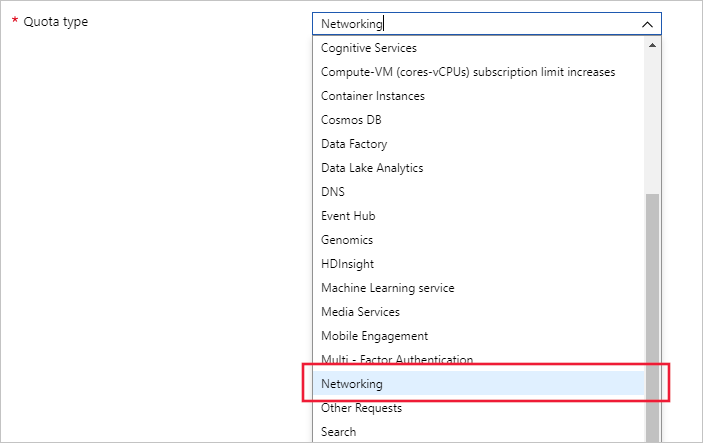
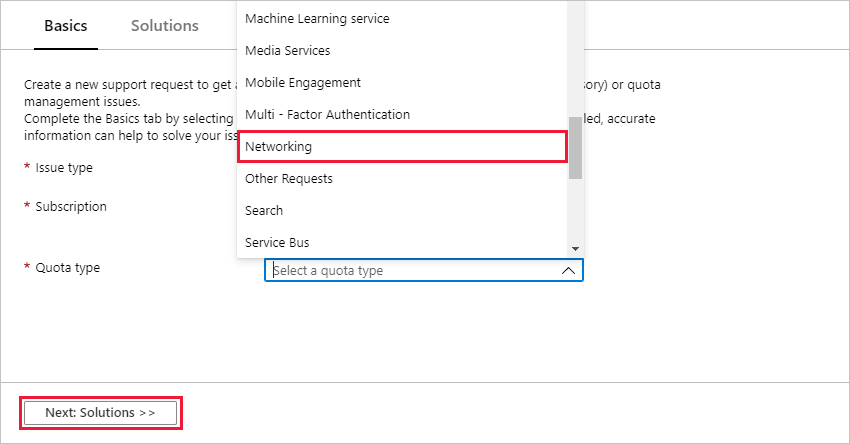
Freshness updates.

diff --git a/articles/azure-portal/supportability/how-to-create-azure-support-request.md b/articles/azure-portal/supportability/how-to-create-azure-support-request.md
@@ -7,7 +7,7 @@ manager: scotthit
 ms.assetid: fd6841ea-c1d5-4bb7-86bd-0c708d193b89
 ms.service: azure-supportability
 ms.topic: article
-ms.date: 11/13/2019
+ms.date: 01/23/2020
 ms.author: kfollis
 ---
 # How to create an Azure support request
@@ -17,24 +17,25 @@ ms.author: kfollis
 Azure customers can create and manage support requests in the [Azure portal](https://portal.azure.com).
 
 > [!NOTE]
-> The Azure portal URL is specific to the Azure cloud where your organization is deployed. 
+> The Azure portal URL is specific to the Azure cloud where your organization is deployed.
+>
 >* Azure portal for commercial use is: [https://portal.azure.com](https://portal.azure.com)
 >* Azure portal for Germany is: [https://portal.microsoftazure.de](https://portal.microsoftazure.de)
 >* Azure portal for the United States government is: [https://portal.azure.us](https://portal.azure.us)
 >
 >
 
-Based on customer feedback, we’ve updated the support request experience to focus on three main goals:
+Based on customer feedback, we've updated the support request experience to focus on three main goals:
 
 * **Streamlined**: Make support and troubleshooting easy to find and simplify how you submit a support request.
-* **Integrated**: You can easily open a support request when you’re troubleshooting an issue with an Azure resource, without switching context.
+* **Integrated**: You can easily open a support request when you're troubleshooting an issue with an Azure resource, without switching context.
 * **Efficient**: Gather the key information your support agent needs to efficiently resolve your issue.
 
 ## Getting started
 
-You can get to **Help + support** in the Azure portal. It's available from the global header or from the resource menu for a service. Before you can file a support request, you must have appropriate permissions.
+You can get to **Help + support** in the Azure portal. It's available from the Azure portal menu, the global header, or the resource menu for a service. Before you can file a support request, you must have appropriate permissions.
 
-### Role based access control
+### Role-based access control
 
 To create a support request, you must be an admin or be assigned to the [Support Request Contributor](../../role-based-access-control/built-in-roles.md#support-request-contributor) role.
 
@@ -46,7 +47,7 @@ To start a support request from anywhere in the Azure portal:
 
    ![Help and Support](./media/how-to-create-azure-support-request/helpandsupportnewlower.png)
 
-2. Select **+ New support request**. Follow the prompts to provide us with information about your problem. We'll suggest some possible solutions, gather details about the issue, and help you submit and track the support request.
+2. Select **New support request**. Follow the prompts to provide us with information about your problem. We'll suggest some possible solutions, gather details about the issue, and help you submit and track the support request.
 
    ![New Support Request](./media/how-to-create-azure-support-request/newsupportrequest2lower.png)
 
@@ -68,12 +69,12 @@ We'll walk you through some steps to gather information about your problem and h
 
 The first step of the support request process gathers basic information about your issue and your support plan.
 
-On the **Basics** tab of **New support request**, use the selectors to start to tell us about the problem. First, you'll identify some general categories for the issue type and choose the related subscription. Selecting the service (for example, "Virtual Machine running Windows") and the resource (the name of your virtual machine) is the next step to get help. Briefly describe the problem in your own words, then **Select problem type** to get more specific.
+On the **Basics** tab of **New support request**, use the selectors to start to tell us about the problem. First, you'll identify some general categories for the issue type and choose the related subscription. Select the service, for example, **Virtual Machine running Windows**. Select the resource, such as the name of your virtual machine. Describe the problem in your own words, then **Select problem type** to get more specific.
 
 ![Basics blade](./media/how-to-create-azure-support-request/basics2lower.png)
 
 > [!NOTE]
-> Azure provides unlimited support for subscription management (things like billing, quota adjustments, and account transfers). For technical support, you need a support plan. [Learn more about support plans](https://azure.microsoft.com/support/plans).
+> Azure provides unlimited support for subscription management, which includes billing, quota adjustments, and account transfers. For technical support, you need a support plan. [Learn more about support plans](https://azure.microsoft.com/support/plans).
 >
 >
 
@@ -83,11 +84,11 @@ After gathering basic information, we next show you solutions to try on your own
 
 ### Details
 
-Next, we collect additional details about the problem. Providing thorough and detailed information in this step helps us route your support request to the right agent and lets them begin diagnosing the issue.
+Next, we collect additional details about the problem. Providing thorough and detailed information in this step helps us route your support request to the right agent.
 
-It's a good idea to let us know when the problem started and any steps to reproduce it. You may also choose to upload a file, such as a log file or output from diagnostics.
+If possible, tell us when the problem started and any steps to reproduce it. You can upload a file, such as a log file or output from diagnostics.
 
-After we have all the information about the problem you're having, you can choose how to get support. In the **Support method** section of the **Details** tab, select the severity of impact. Provide your preferred contact method, a good time to contact you, and your support language.
+After we have all the information about the problem, choose how to get support. In the **Support method** section of **Details**, select the severity of impact. Provide your preferred contact method, a good time to contact you, and your support language.
 
 Next, complete the **Contact info** section so we know how to contact you.
 
@@ -95,7 +96,7 @@ Next, complete the **Contact info** section so we know how to contact you.
 
 Complete all required information on each tab, then select **Review + create**. Check the details that you'll send to Support. Go back to any tab to make a change if needed. When you're satisfied the support request is complete, select **Create**.
 
-A support agent will contact you using the method you indicated. Consult [Support scope and responsiveness](https://azure.microsoft.com/support/plans/response/) for information about initial response time.
+A support agent will contact you using the method you indicated. For information about initial response time, see [Support scope and responsiveness](https://azure.microsoft.com/support/plans/response/).
 
 ## All support requests
 
@@ -103,11 +104,11 @@ You can view the details and status of support requests by going to **Help + sup
 
 ![All support requests](./media/how-to-create-azure-support-request/allrequestslower.png)
 
-On this page, you can filter support requests by Subscription, created date (UTC), and status. Additionally, you can sort and search for support requests on this page.
+On this page, you can filter support requests by **Subscription**, created date (UTC), and status. Additionally, you can sort and search for support requests on this page.
 
 Select a support request to view details, including severity and the expected time it will take for a support agent to respond.
 
-If you want to change the severity of the request, select  **Business impact**. A list of severities available to assign is shown.
+If you want to change the severity of the request, select  **Business impact**. Choose from a list of severities to assign.
 
 > [!NOTE]
 > The maximum severity level depends on your support plan. [Learn more about support plans](https://azure.microsoft.com/support/plans).
@@ -118,6 +119,7 @@ To learn more about self-help support options in Azure, watch this video:
 > [!VIDEO https://www.youtube.com/embed/gNhzR5FE9DY]
 
 ## Next steps
+
 * [Send us your feedback and suggestions](https://feedback.azure.com/forums/266794-support-feedback)
 * Engage with us on [Twitter](https://twitter.com/azuresupport)
 * Get help from your peers in the [MSDN forums](https://social.msdn.microsoft.com/Forums/azure)

diff --git a/articles/azure-portal/supportability/networking-quota-requests.md b/articles/azure-portal/supportability/networking-quota-requests.md
@@ -3,7 +3,7 @@ title: Networking limit increase | Microsoft Docs
 description: Networking limit increase
 author: anavinahar
 ms.author: anavin
-ms.date: 06/19/2019
+ms.date: 01/23/2020
 ms.topic: article
 ms.service: azure-supportability
 ms.assetid: ce37c848-ddd9-46ab-978e-6a1445728a3b
@@ -12,72 +12,77 @@ ms.assetid: ce37c848-ddd9-46ab-978e-6a1445728a3b
 
 # Networking limit increase
 
-To view your current Networking usage and quota, you can visit the **Usages + Quota** blade in the Azure portal. You can also use usage [CLI](https://docs.microsoft.com//cli/azure/network?view=azure-cli-latest#az-network-list-usages), [PowerShell](https://docs.microsoft.com/powershell/module/azurerm.network/get-azurermnetworkusage?view=azurermps-6.13.0) or the [network usage API](https://docs.microsoft.com/rest/api/virtualnetwork/virtualnetworks/listusage) to view your network usage and limits.
+You can increase your networking quota by using the [Azure portal](https://portal.azure.com).
 
-You can request an increase via **Help + Support** blade or the **Usages + Quota** blade in the portal.
+To view your current Networking usage and quota in Azure portal, open your subscription, then select **Usages + quotas**. You can also use the following options to view your network usage and limits.
+
+* [Usage CLI](/cli/azure/network#az-network-list-usages)
+* [PowerShell](/powershell/module/azurerm.network/get-azurermnetworkusage)
+* [The network usage API](/rest/api/virtualnetwork/virtualnetworks/listusage)
+
+You can request an increase by using **Help + Support** or in **Usages + quotas** in the portal.
 
 > [!Note]
 > To change the default size of for Public IP Prefix, select "Min Public IP InterNetwork Prefix Length" from the dropdown list.
 
-## Request Networking quota increase at subscription level using the **Help + Support** blade
+## Request Networking quota increase at subscription level using Help + support
 
-Follow the instructions below to create a support request via Azure's 'Help + Support' blade available in the Azure portal. 
+Follow the instructions below to create a support request by using **Help + Support** in the Azure portal.
 
-1. From https://portal.azure.com, select **Help + Support**.
+1. Sign in to [Azure portal](https://portal.azure.com), and then select **Help + Support** from the Azure portal menu or search for and select **Help + Support**.
 
-    ![Help + Support](./media/resource-manager-core-quotas-request/helpsupport.png)
- 
-2.  Select **New support request**. 
+    ![Help + Support](./media/networking-quota-request/help-plus-support.png)
 
-    ![New support request](./media/resource-manager-core-quotas-request/newsupportrequest.png)
+1. Select **New support request**.
 
-3. In the Issue type dropdown, choose **Service and subscription limits (quotas)**.
+    ![New support request](./media/networking-quota-request/new-support-request.png)
 
-    ![Issue type dropdown](./media/resource-manager-core-quotas-request/issuetypedropdown.png)
+1. For **Issue type**, choose **Service and subscription limits (quotas)**.
 
-4. Select the subscription that needs an increased quota.
+    ![Select subscription limits from issue type dropdown](./media/networking-quota-request/select-quota-issue-type.png)
 
-    ![Select subscription newSR](./media/resource-manager-core-quotas-request/select-subscription-sr.png)
-   
-5. Select **Networking** in **quota type** dropdown. 
+1. Select the subscription that needs an increased quota.
+
+    ![Select subscription newSR](./media/networking-quota-request/select-subscription-support-request.png)
+
+1. Select **Networking** in **Quota type**. Select **Next: Solutions**.
 
     ![Select quota type](./media/networking-quota-request/select-quota-type-network.png)
 
-6. In **Problem Details**, provide additional information to help process your request by clicking **Provide details**.
+1. In **PROBLEM DETAILS**, provide additional information to help process your request by selecting **Provide details**.
 
-    ![Provide details](./media/resource-manager-core-quotas-request/provide-details.png)
+    ![Provide details](./media/networking-quota-request/provide-details-link.png)
 
-7. In the **Quota details** panel, select Deployment model, a location and the Resources that you want to request an increase for.
+1. In the **Quota details** panel, select **Deployment Model**, a location, and the resources that you want to request an increase for.
 
     ![Quota Details DM](./media/networking-quota-request/quota-details-network.png)
 
-8.  Enter the new limits you would like on the subscription. To remove a line, uncheck the Resource from the Resource dropdown or click the discard "x" icon. After entering the desired quota for each Resource, click **Save and Continue** on the Quota details panel to continue with the support request creation.
+1. Enter the new limits you would like on the subscription. To remove a line, unselect the resource from the **Resources** menu or click the discard "x" icon. After entering the quota for each resource, click **Save and continue** to continue with the support request creation.
 
     ![New Limits](./media/networking-quota-request/network-new-limits.png)
 
+## Request Networking quota increase at subscription level using Usages + quotas
 
-## Request Networking quota increase at subscription level using **Usages + Quota** blade
+Follow these instructions to create a support request by using **Usage + quota** in the Azure portal.
 
-Follow the instructions below using to create a support request via Azure's 'Usage + quota' blade available in the Azure portal. 
+1. From https://portal.azure.com, search for and select **Subscriptions**.
 
-1. From https://portal.azure.com, select **Subscriptions**.
+    ![Subscriptions](./media/networking-quota-request/search-for-suscriptions.png)
 
-    ![Subscriptions](./media/resource-manager-core-quotas-request/subscriptions.png)
+1. Select the subscription that needs an increased quota.
 
-2. Select the subscription that needs an increased quota.
+    ![Select subscription](./media/networking-quota-request/select-subscription-change-quota.png)
 
-    ![Select subscription](./media/resource-manager-core-quotas-request/select-subscription.png)
+1. Select **Usage + quotas**
 
-3. Select **Usage + quotas**
+    ![Select usage and quotas](./media/networking-quota-request/select-usage-plus-quotas.png)
 
-    ![Select usage and quotas](./media/resource-manager-core-quotas-request/select-usage-quotas.png)
+1. In the upper right corner, select **Request increase**.
 
-4. In the upper right corner, select **Request increase**.
+    ![Request increase](./media/networking-quota-request/request-increase-from-subscription.png)
 
-    ![Request increase](./media/resource-manager-core-quotas-request/request-increase.png)
-
-5. Follow the steps starting with step # 3 from the *Request Networking quota increase at subscription level* section using the **Help + Support** blade section
+1. Follow the steps starting with step in [Request Networking quota increase at subscription level](#request-networking-quota-increase-at-subscription-level-using-the-help--support-blade).
 
 ## About Networking limits
 
-To learn more about Networking limits, see the [Networking section](../../azure-resource-manager/management/azure-subscription-service-limits.md#networking-limits) of the limits page or our Network Limits FAQ
+To learn more about Networking limits, see the [Networking section](../../azure-resource-manager/management/azure-subscription-service-limits.md#networking-limits) of the limits page or our Network Limits FAQ.

diff --git a/articles/azure-portal/supportability/how-to-use-file-uploader.md b/articles/azure-portal/supportability/how-to-use-file-uploader.md
@@ -6,11 +6,12 @@ tags: billing
 ms.assetid: 86697fdf-3499-4cab-ab3f-10d40d3c1f70
 ms.service: azure-supportability
 ms.topic: article
-ms.date: 10/31/2018
+ms.date: 01/23/2020
 ms.author: genli
 
 ---
 # Microsoft Azure new support request file upload utility guidelines
+
 When you [create a support request](https://portal.azure.com/#create/Microsoft.Support), the file upload option can help you easily upload diagnostic files or any other files that you think are relevant to the incident.  
 
 > [!NOTE]
@@ -20,12 +21,13 @@ When you [create a support request](https://portal.azure.com/#create/Microsoft.S
 
 Follow these guidelines when you use the file upload option:
 
-* All files must have a file name extension, such as .docx or .xlsx. See the table for the list of allowed file name extensions.
+* All files must have a file name extension, such as *.docx* or *.xlsx*. See the table for the allowed file name extensions.
 * The file name must be no longer than 110 characters.
-* You can’t upload more than one file.
-* Files can’t be larger than 4 MB.
+* You can't upload more than one file.
+* Files can't be larger than 4 MB.
 
 ## Table of the allowed file name extensions
+
 | 0-9, A-C    | D-G   | H-M         | N-P   | R-T      | U-W        | X-Z     |
 |-------------|-------|-------------|-------|----------|------------|---------|
 | .7z         | .dat  | .hwl        | .odx  | .rar     | .tdb       | .xlam   |
